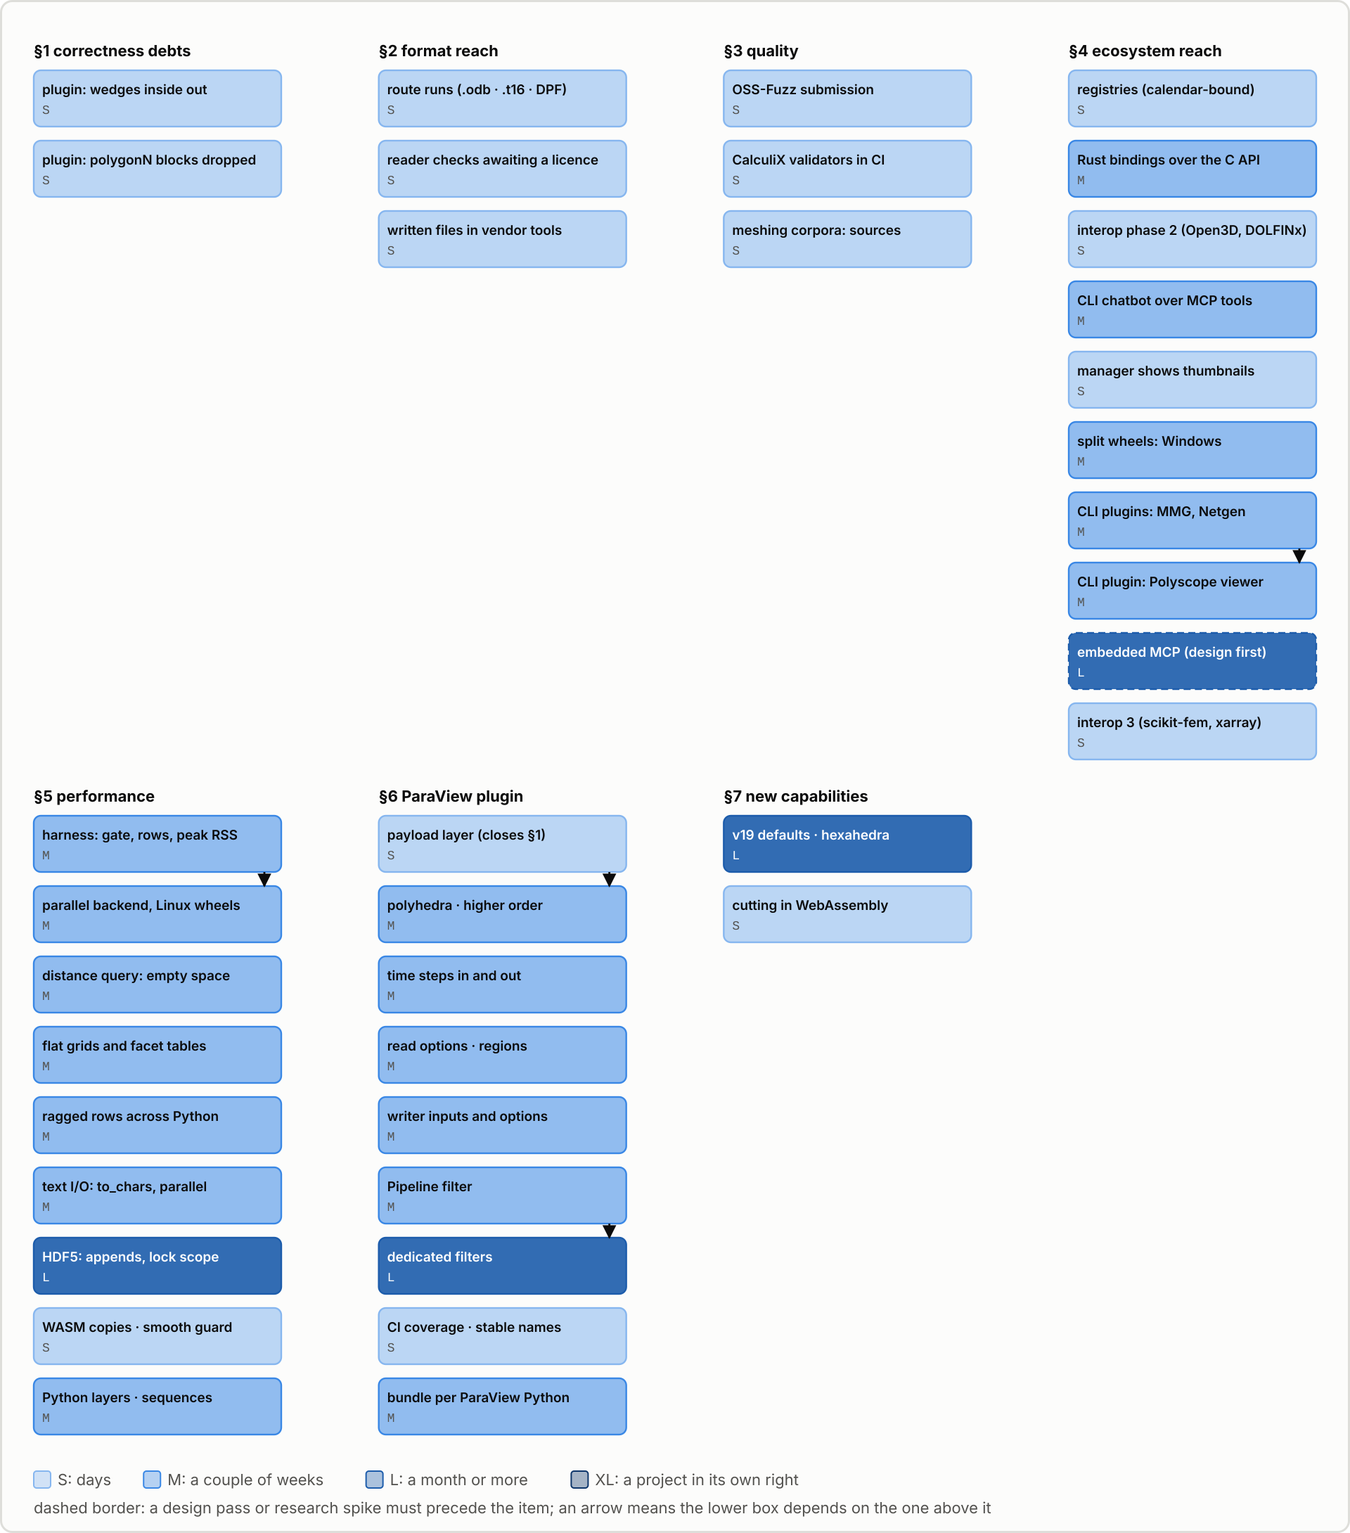
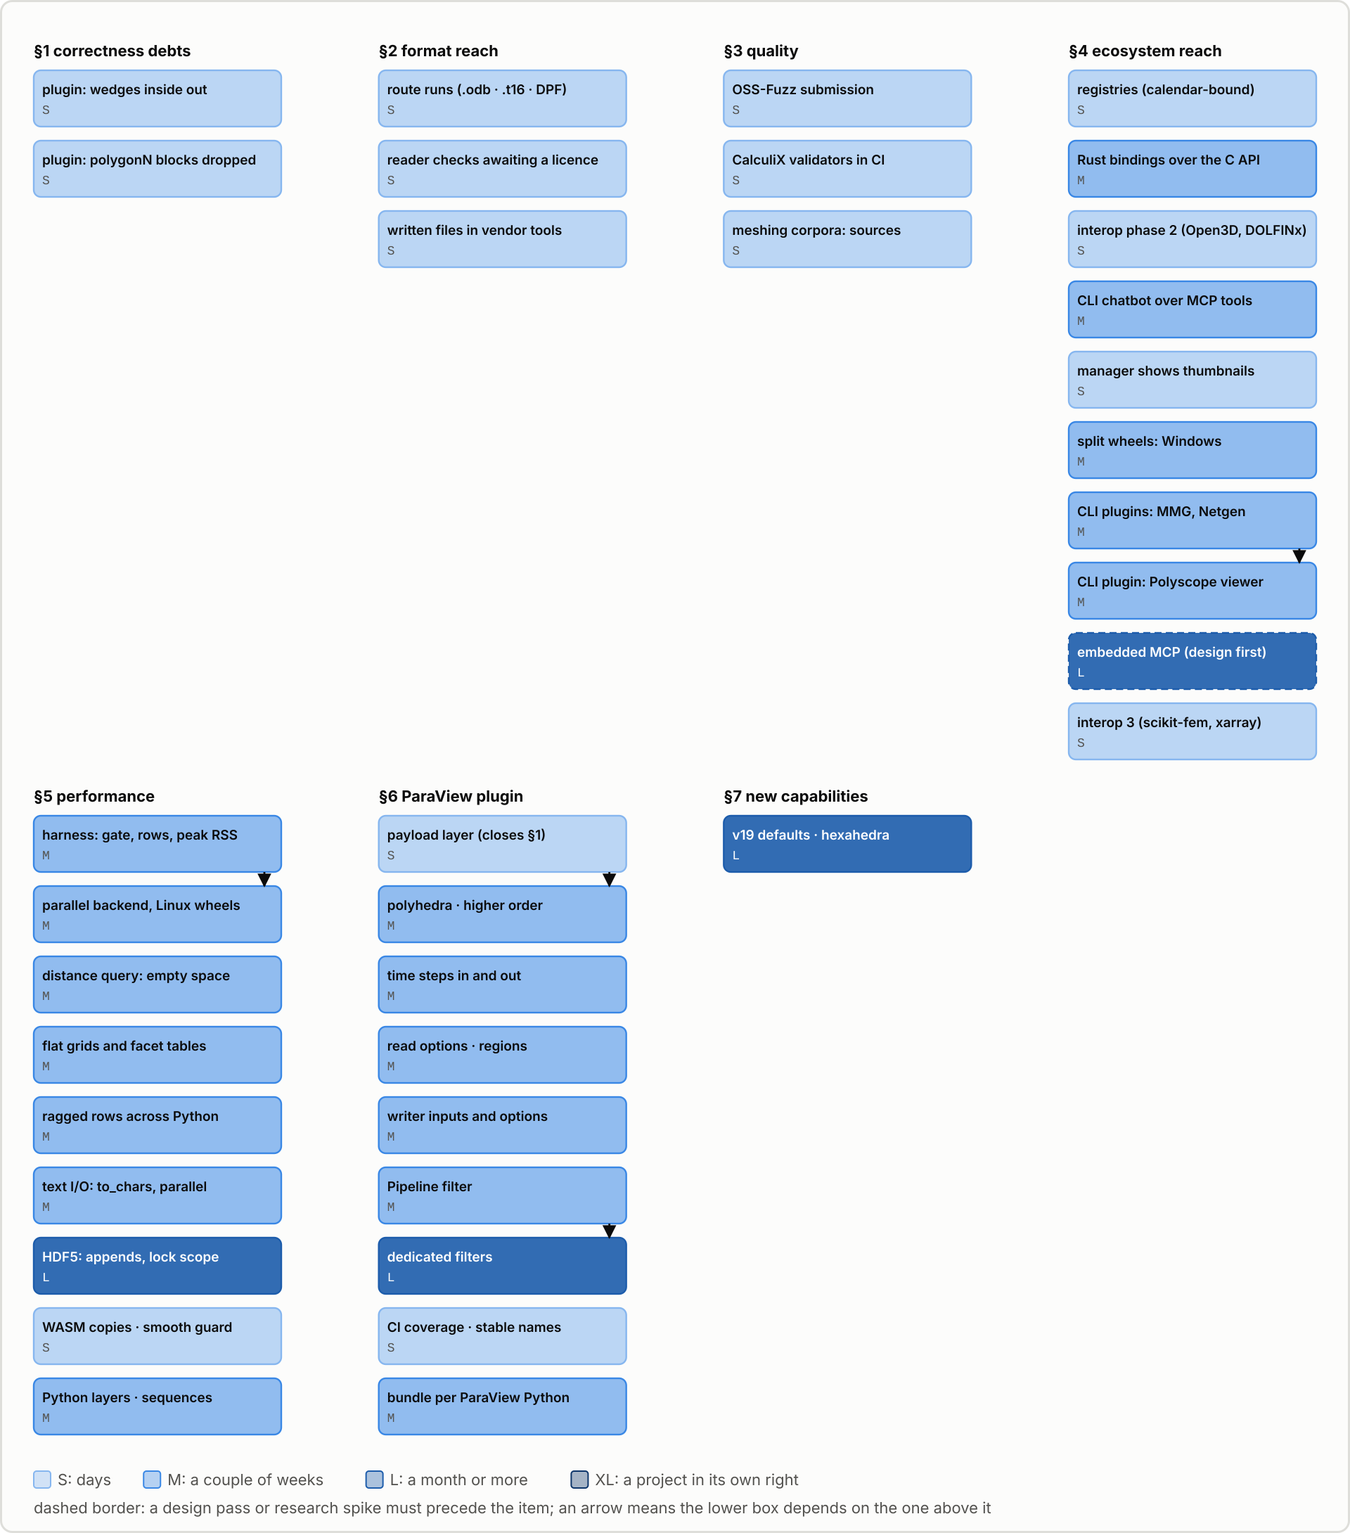
CutCells in the Windows wheels and the full WebAssembly artifact
Windows wheels: wheels.yml builds the pinned CutCells as a static MSVC
library (build/build-cutcells.sh, cached) and links it into the core DLL;
the base wheel smoke test now asserts CutCells cuts on every platform.

WebAssembly: build-wasm-deps.sh --full builds CutCells (static,
-fwasm-exceptions, no OpenMP) into the full prefix, configure-wasm.sh links
it, and the smoke test requires it in the full variants (the lean one still
refuses by name). Roadmap 7.10 is delivered and removed; docs, notices and
the roadmap map follow.

Claude-Session: https://claude.ai/code/session_01DnyVZBb66zh3SnGbxLhSpi

Changed region(s): [[0.5312, 0.5615, 0.7188, 0.6239]]

diff --git a/tests/wheel_base_smoke.py b/tests/wheel_base_smoke.py
@@ -1,7 +1,7 @@
 """Smoke test of the base wheel alone (wheels.yml's CIBW_TEST_COMMAND;
 standalone, no pytest): it carries no OpenCASCADE, so STEP reading raises an
 error naming the add-on, ``fit_cad`` falls back to the native backend, the
-shared core and its CMake package are in the wheel, and (Linux and macOS) the
+shared core and its CMake package are in the wheel, CutCells cuts on every platform, and (Linux and macOS) the
 native HDF5, netCDF, cgnslib and codec paths are active without their symbols
 leaking, beside h5py and netCDF4 in the same process."""
 
@@ -39,6 +39,12 @@ else:
 
 cmake_dir = mp.get_cmake_dir()
 assert os.path.isfile(os.path.join(cmake_dir, "meshioplusplusConfig.cmake")), cmake_dir
+
+# --- CutCells (cut_level_set, cut_quadrature): every platform's wheel ------------
+assert mp.cut_has_cutcells(), "the wheel was built without CutCells"
+plane = [((0.3, 0.0, 0.0), (1.0, 0.0, 0.0))]
+_, report = mp.cut_level_set(mp.box((2, 2, 2)), planes=plane, return_report=True)
+assert abs(report["measure"] - 0.3) < 1e-12, report
 
 # --- the permissive libraries (roadmap 4.7.2): Linux and macOS wheels ------------
 # Windows keeps HDF5, netCDF and the codecs on h5py, netCDF4 and the stdlib.

diff --git a/doc/diagrams/figures/flows.py b/doc/diagrams/figures/flows.py
@@ -1088,7 +1088,6 @@ def roadmap_map():
             "§7 new capabilities",
             [
                 ("v19 defaults · hexahedra", "L"),
-                ("cutting in WebAssembly", "S"),
             ],
             [],
         ),

diff --git a/CHANGELOG.md b/CHANGELOG.md
@@ -16,7 +16,7 @@ notable enhancements, and breaking changes. Breaking changes are called out expl
 - **Added: `remesh_quads`** ([field-aligned quads](doc/remesh_quads.md), roadmap 7.7.3): a triangle surface remeshed into quads along a smooth cross field by an installed QuadriFlow (MIT) or Instant Meshes (BSD-3), run as a separate process through a new provider kind, `QuadRemesherProvider`, registered by name (`add_quad_remesher`, `quad_remesher_names()`; `remesh_quads_backends()`). On the unit sphere at `h = 0.1` QuadriFlow makes 2,602 quads, no triangles, with a least scaled Jacobian of 0.368 (0.25 to 0.58 across seeds, the mean 0.987), where recombining `mesh_cad_surface`'s own triangles leaves 0.116 at the poles; the report gives the quads, the scaled Jacobian and the distance to the input. On every surface: C `mio_remesh_quads` with `mio_remesh_quads_opts`/`_report` and `mio_quad_remesher_count`/`_name`, Fortran, Julia, R, WASM (`remeshQuads`, which always throws there), both CLIs (`remesh-quads`), the pipeline (`RemeshQuads`) and MCP. CI builds QuadriFlow from a pinned commit; Instant Meshes is supported but untested.
 - **Added: TetGen `.smesh`** ([TetGen](doc/formats/tetgen.md#the-smesh-surface)): the surface file TetGen meshes reads and writes in both engines: nodes, then `triangle`, `quad` and `polygon` facets with `tetgen:ref` markers.
 - **Fixed: a cgnslib built against a system HDF5 failed to link** (roadmap 7.1.4). CGNS's exported CMake targets name their HDF5 dependency `hdf5-shared`/`hdf5-static` without declaring it when HDF5 came from FindHDF5 (Ubuntu's), so `-DMESHIOPLUSPLUS_WITH_CGNSLIB=ON` asked the linker for `-lhdf5-shared`; the configure now stands those names in for the HDF5 it found. A new CI job, `cgnslib`, builds CGNS 4.5.2 from its pinned tag and runs the CGNS suites with the backend live, `CgnsMll.LengthUnitsAgreeWithCgnslib` included, which no leg had run.
-- **Added: `cut_level_set` and `cut_quadrature`** ([level-set cutting](doc/cut.md)): the part of a mesh that one or several level sets select (scalar `point_data` arrays or planes, combined by CutCells' expressions such as `"a < 0 and b > 0"` or `"phi = 0"` for the interface), cut from cells of every family (line, triangle, quad, tetra, hexahedron, wedge, pyramid) into straight pieces of their own family (`backend="lut"`) or curved Lagrange pieces (`"quadrays"`), the uncut cells inside kept, point data interpolated in each piece's parent and cell data and cell regions carried (`cut:parent_cell`, `cut:cut`); and quadrature rules of any order on that part (cut-cell quadrature for unfitted finite elements), as a point cloud with `quadrature:weight`, `quadrature:reference`, `quadrature:rule` and `quadrature:parent_cell`. A level set is quadratic on `triangle6`/`tetra10` meshes. Both run [CutCells](https://github.com/sclaus2/CutCells) (S. Claus, MIT), a new optional dependency (`MESHIOPLUSPLUS_WITH_CUTCELLS`, found by `find_package(CutCells)`; `build/build-cutcells.sh` builds the pinned commit), which the Linux and macOS wheels link; without it both refuse naming the option. On every surface: Python, C++ (`operations/cut.hpp`, additive), C (`mio_cut_level_set`, `mio_cut_quadrature`, `mio_cut_opts`, `mio_cut_report`, `mio_has_cutcells`), Fortran, Julia, R, WASM (bound; neither artifact links CutCells yet), both CLIs (`cut`, `cut-quadrature`), the pipeline (`CutLevelSet`, both engines) and MCP. A new CI job builds the pin and runs the suites.
+- **Added: `cut_level_set` and `cut_quadrature`** ([level-set cutting](doc/cut.md)): the part of a mesh that one or several level sets select (scalar `point_data` arrays or planes, combined by CutCells' expressions such as `"a < 0 and b > 0"` or `"phi = 0"` for the interface), cut from cells of every family (line, triangle, quad, tetra, hexahedron, wedge, pyramid) into straight pieces of their own family (`backend="lut"`) or curved Lagrange pieces (`"quadrays"`), the uncut cells inside kept, point data interpolated in each piece's parent and cell data and cell regions carried (`cut:parent_cell`, `cut:cut`); and quadrature rules of any order on that part (cut-cell quadrature for unfitted finite elements), as a point cloud with `quadrature:weight`, `quadrature:reference`, `quadrature:rule` and `quadrature:parent_cell`. A level set is quadratic on `triangle6`/`tetra10` meshes. Both run [CutCells](https://github.com/sclaus2/CutCells) (S. Claus, MIT), a new optional dependency (`MESHIOPLUSPLUS_WITH_CUTCELLS`, found by `find_package(CutCells)`; `build/build-cutcells.sh` builds the pinned commit), which the Linux, macOS and Windows wheels and the full WebAssembly artifact link; without it both refuse naming the option. On every surface: Python, C++ (`operations/cut.hpp`, additive), C (`mio_cut_level_set`, `mio_cut_quadrature`, `mio_cut_opts`, `mio_cut_report`, `mio_has_cutcells`), Fortran, Julia, R, WASM (`cutLevelSet`, `cutQuadrature`, `hasCutcells`; the lean artifact refuses by name), both CLIs (`cut`, `cut-quadrature`), the pipeline (`CutLevelSet`, both engines) and MCP. A new CI job builds the pin and runs the suites.
 - **ABI:** `MESHIOPLUSPLUS_ABI_VERSION` 37 -> 38 (Tier A): `CadReadOptions` appends `mHeal` and `mSewTolerance` (16 -> 32 bytes) and `TetrahedralizeOptions` appends `mProvider` (80 -> 112 bytes); `TetrahedralizeBackend::Named`, the named tet-mesher and quad-remesher registrations in `providers.hpp` and the new header `operations/remesh_quads.hpp` ride along as pure additions. See [the ABI history](doc/abi.md).
 - **Added: materials in `octree_mesh`'s hexahedral output** ([octree_mesh](doc/octree_mesh.md#the-hexahedral-output), roadmap 7.9.3). `output="hex"` with `conformity="cleaving"` gives one material per nested shell, as the tetrahedral output does (`octree_mesh:material`, `material_<k>`). The materials are made manifold one layer inside the next, each interface is pillowed on both sides and fitted to its own shell, and `hausdorff_to_skin` measures the interfaces too. Measured: two nested spheres keep a smallest corner of 0.60 (uniform) and 0.47 (graded), three keep 0.48 and 0.28, each material within 3% of its shell's volume, conforming. No option or ABI change: the option existed, and a one-shell skin gives the same bytes as before.
 - **Changed: `octree_mesh`'s hexahedral fit leaves out creases shorter than a cell** (roadmap 7.9.4, narrowed to 7.9.2). On a scan most creases are noise; they are no longer snapped, and the warnings and `num_feature_chains_missed` count them. Hexahedra with a non-positive corner, uniform / graded: Stanford bunny 5 / 0 → 2 / 0; decimated Happy Buddha 684 / 486 → 283 / 102; XYZ RGB dragon 1 516 / 1 237 → 254 / 66. A new warning counts those lying where the skin is thinner than two cells. Skins whose chains are longer than a cell (the cube, the capped cylinder) give the same bytes, as do all four `octree_mesh_hex` rows of `bench_ops --hash`; the Stanford bunny's hexahedra change.

diff --git a/doc/wasm.md b/doc/wasm.md
@@ -45,7 +45,7 @@ full.hasOcct();        // true; hasZstd(), hasLz4(), hasBzip2(), hasNetgen(), ha
 | --- | --- | --- | --- |
 | `meshioplusplus_wasm` (lean) | 13.5 MB (4.5 MB gzipped) | 94 kB | HDF5, netCDF, CGNS, zlib, gidpost, Eigen (MED transpose, MPL-2.0) |
 | `meshioplusplus_wasm_mt` (lean, threaded) | 14.2 MB (4.7 MB gzipped) | 113 kB | the same, with OpenMP over pthreads |
-| `meshioplusplus_wasm_full` | 26.2 MB (8.8 MB gzipped) | 98 kB | the lean libraries, plus OpenCASCADE, zstd, lz4, bzip2, KaHIP (serial kaffpa), Netgen (nglib) and MMG (libmmg) |
+| `meshioplusplus_wasm_full` | 26.2 MB (8.8 MB gzipped) | 98 kB | the lean libraries, plus OpenCASCADE, zstd, lz4, bzip2, KaHIP (serial kaffpa), Netgen (nglib), MMG (libmmg) and CutCells |
 | `meshioplusplus_wasm_full_mt` (threaded) | 26.6 MB (9.0 MB gzipped) | 118 kB | the same, with OpenMP over pthreads |
 
 Measured for v17.2.0 with Emscripten 6.0.3 (`gzip -9` in parentheses; a server's Brotli does better). OpenCASCADE's modelling, healing, meshing and STEP/IGES toolkits about double the binary, which is why the full pair is opt-in. MMG (October 2026, Emscripten 6.0.3, roadmap 3.1.8) adds 0.99 MB to the full `.wasm` (0.35 MB gzipped) and nothing to the `.mjs`: measured on the sequential full artifact built twice in the same configuration (OpenCASCADE and HDF5 left out to keep the comparison quick), 14.76 MB (5.12 MB gzipped) without MMG and 15.75 MB (5.47 MB gzipped) with it, 6.7% more.
@@ -60,6 +60,7 @@ The lean pair is MIT, and its bundled libraries (zlib, HDF5, netCDF, CGNS, the v
 
 Some libraries are in neither pair, each for a reason, and each still answers by name:
 
+- **CutCells in the lean pair**: `cutLevelSet` and `cutQuadrature` ([level-set cutting](cut.md)) run in the full artifact only (CutCells 0.5.0 at the commit `build/deps-pins.sh` pins, static, without OpenMP, built by `build-wasm-deps.sh --full`); on lean, `hasCutcells()` is false and both throw naming `MESHIOPLUSPLUS_WITH_CUTCELLS`.
 - **KaHIP in the lean pair**: the graph partitioner ships only in the full artifact (serial kaffpa, Emscripten port of v3.25 built by `build-wasm-deps.sh --full`); on lean, `partition(..., 'kahip')` throws naming `MESHIOPLUSPLUS_WITH_KAHIP`, and `'auto'` resolves to the SFC method.
 - **ADIOS2** (`vtx`): no one has made a wasm build of it; `vtx` is absent from `availableFormats()`, and a `.bp` path names ADIOS2.
 - **TecIO** (`szplt`): its redistribution terms; absent, and named, the same way.
@@ -498,7 +499,7 @@ node tests/wasm/smoke.mjs
 `--full` adds the [full pair](#lean-and-full-builds) (`--full-only` builds only it; `--without-occt` leaves OpenCASCADE out of it, for a codecs-only full build that stays MIT), configured with `-DMESHIOPLUSPLUS_WASM_FULL=ON` in its own trees (`build/wasm-<type>-full[-mt]`). Only under that option does CMake look for OpenCASCADE, zstd, lz4 and KaHIP on a wasm target, in the prefixes `build/build-wasm-deps.sh --full` builds, one per threading flavour (OpenCASCADE's reference counts are `std::atomic`, and an object built without `-pthread` cannot join the threaded link); bzip2 is Emscripten's port, like zlib. A full build never drops a library it was asked for: one not found is a configure error, not a smaller artifact. OpenCASCADE is a long build, most of an hour per flavour on four cores; CI caches its prefix apart from the lean one, and the release job assembles the package from both builds' artifacts.
 
 ```sh
-./build/build-wasm-deps.sh --full                       # lean deps + OpenCASCADE, zstd, lz4 and KaHIP (seq and mt)
+./build/build-wasm-deps.sh --full                       # lean deps + OpenCASCADE, zstd, lz4, KaHIP, Netgen, MMG and CutCells (seq and mt)
 ./build/configure-wasm.sh --full --build                # all four artifacts
 MESHIOPLUSPLUS_WASM_VARIANT=full node tests/wasm/smoke.mjs
 ```

diff --git a/doc/roadmap.md b/doc/roadmap.md
@@ -223,7 +223,6 @@ The sanitizer leg, the reader fuzzing, the format conformance matrix, the proper
 - **7.9 Deferred defaults and follow-ups.**
   - **7.9.1 `model_tolerances` and `virtual_faces` on by default, in v19.** On the CAD corpus they lose no face and together mesh 55 more of its 16,503; they stay off because the released `mio_mesh_cad_surface_opts_ex` reads zero as off, and [mesh generation](./mesh_cad.md#measured-and-parked) defers them to the next major version, when the C struct can change. v18.0.0 was that version and did not take them, so they wait for v19, with the C struct change. **S**
   - **7.9.2 Hexahedra of scans that crease within a cell.** `octree_mesh`'s hexahedral output no longer snaps creases shorter than a cell, which removed most of the non-positive corners on scans ([octree_mesh](./octree_mesh.md#the-hexahedral-output)), but some remain where a scan creases, curves or thins within a cell: at `min_size` 0.6% of the diagonal and `feature_angle=60`, 283 and 102 cells of the decimated Happy Buddha (uniform, graded) and 254 and 66 of the XYZ RGB dragon ([common-3d-test-models](https://github.com/alecjacobson/common-3d-test-models)), about a third of them where the skin is thinner than two cells, and two cells of the Stanford bunny's uniform grid at `min_size=1.5`, at a corner of zero. No move of a node raises them, and `min_size` is a floor the hexahedral grid keeps, so the remaining routes change what is fitted rather than how: fit a smoothed skin within a cell (the scan's noise filtered at the cell's scale) and project onto the true skin only where it is within a tolerance, or give a part one cell thick a template of its own instead of two facing pillows. A graded box inside a box, both on the lattice's planes, under cleaving, keeps four inverted cells where the interface meets the dual's transitions; it belongs here too. Probe: `test_hexahedral_bunny[uniform]` (`MESHIOPLUSPLUS_OCTREE_MESH_BUNNY=1`) asserts the warning about a non-positive corner, which then no longer comes. **L**
-- **7.10 Level-set cutting in WebAssembly.** [`cutLevelSet` and `cutQuadrature`](./cut.md) are bound in WebAssembly but neither artifact links CutCells, so both refuse there. Build CutCells (C++20, its OpenMP optional) for wasm32 in `build/build-wasm-deps.sh --full` from the commit `build/deps-pins.sh` pins, link it into the full artifact (`MESHIOPLUSPLUS_WASM_FULL`'s library list), and turn the smoke test's refusal branch into the measured one it already holds. **S**
 
 ---
 
@@ -301,4 +300,4 @@ Open work only; what shipped is in `CHANGELOG.md`.
 5. **The ParaView plugin ([§6](#paraview-plugin))** — the payload layer and CI (6.1, 6.10), then time steps, read options and regions (6.4 to 6.6), then the writer (6.7), then the Pipeline filter (6.8), whose `apply_operations` has landed; the dedicated filters and the bundle last.
 6. **Split Python packages on Windows ([4.7](#ecosystem-reach)) and the CLI plugins (4.8)** — the MSVC recipe for the static libraries (4.7.1), then plugins through a shared core DLL (4.7.2); the Linux and macOS plugin archive (4.8.1) needs neither and can go first, the Polyscope plugin (4.8.2) after it.
 7. **The embeddable MCP server (4.9)** — its design pass (4.9.1) before any code, since it decides whether the Python server's sandbox and sanitizer move into the core.
-8. **New capabilities ([§7](#new-capabilities))** — 7.10 first (CutCells in the full WebAssembly artifact, a build recipe), then 7.9.2; 7.9.1 is tied to the next major version.
+8. **New capabilities ([§7](#new-capabilities))** — 7.9.2 first; 7.9.1 is tied to the next major version.

diff --git a/doc/cut.md b/doc/cut.md
@@ -45,7 +45,7 @@ On a unit cube cut by the plane `x = 0.3`, every family (hexahedra, tetrahedra, 
 
 ## Building with CutCells
 
-CutCells is bring-your-own, never vendored or downloaded by CMake. `build/build-cutcells.sh PREFIX` builds the commit `build/deps-pins.sh` pins (CutCells has no release tags), static and without OpenMP; then configure meshio++ with `-DMESHIOPLUSPLUS_WITH_CUTCELLS=ON -DCUTCELLS_ROOT=PREFIX` (or `build/configure.sh --cutcells-root PREFIX`). The PyPI wheels for Linux and macOS link it (`build/build-permissive-libs.sh`); the Windows wheels, both WebAssembly artifacts and the default source build do not, and refuse by name. `cut_has_cutcells()` (C++, Python), `_core.__has_cutcells__`, `mio_has_cutcells()` (C) and their binding twins report it.
+CutCells is bring-your-own, never vendored or downloaded by CMake. `build/build-cutcells.sh PREFIX` builds the commit `build/deps-pins.sh` pins (CutCells has no release tags), static and without OpenMP; then configure meshio++ with `-DMESHIOPLUSPLUS_WITH_CUTCELLS=ON -DCUTCELLS_ROOT=PREFIX` (or `build/configure.sh --cutcells-root PREFIX`). The PyPI wheels for Linux, macOS and Windows link it (`build/build-permissive-libs.sh`); the Windows wheels link it too (a static MSVC build, `build/build-cutcells.sh`), and so does the full WebAssembly artifact (`build/build-wasm-deps.sh --full`); the lean WebAssembly artifact and the default source build do not, and refuse by name. `cut_has_cutcells()` (C++, Python), `_core.__has_cutcells__`, `mio_has_cutcells()` (C) and their binding twins report it.
 
 ## Bindings
 
@@ -58,4 +58,4 @@ CutCells is bring-your-own, never vendored or downloaded by CMake. `build/build-
 
 ## Limits
 
-Straight-sided geometry only (CutCells' affine cells); polygons and polyhedra are refused; quadratic level sets only on meshes of `triangle6` or `tetra10` cells; at most 64 level sets in one cut (CutCells' mask); serial. The WebAssembly artifacts do not link CutCells yet.
+Straight-sided geometry only (CutCells' affine cells); polygons and polyhedra are refused; quadratic level sets only on meshes of `triangle6` or `tetra10` cells; at most 64 level sets in one cut (CutCells' mask); serial. CutCells is in the full WebAssembly artifact only (static, built without OpenMP, with `-fwasm-exceptions`); the lean one refuses by name.

diff --git a/doc/installation.md b/doc/installation.md
@@ -37,7 +37,7 @@ The base wheel, `meshioplusplus`, is MIT and carries no copyleft code. The core 
 | HDF5 1.14.6, netCDF-C 4.9.3, cgnslib 4.5.2 (Linux and macOS; the native HDF5, netCDF and CGNS formats) | BSD-3-Clause, BSD-3-Clause, Zlib |
 | zstd 1.5.7, LZ4 1.10.0, bzip2 1.0.8 (Linux and macOS; the VTK XML codecs and libMesh `.bz2`) | BSD-3-Clause, BSD-2-Clause, BSD-style |
 | KaHIP 3.25 (Linux and macOS; the `kahip` partition method) | MIT |
-| CutCells 0.5.0 (Linux and macOS; `cut_level_set` and `cut_quadrature`) | MIT |
+| CutCells 0.5.0 (Linux, macOS and Windows; `cut_level_set` and `cut_quadrature`) | MIT |
 | Eigen (Linux and macOS; header-only, MED) | MPL-2.0 |
 
 On Linux and macOS (v18.0.0) the libraries above are static archives with hidden symbols, so the formats they serve run natively in the wheel; h5py and netCDF4 still work beside them, because none of the wheel's HDF5 symbols are exported and each package keeps its own copy. The Windows wheels keep HDF5, netCDF and the codecs on h5py, netCDF4 and the standard library until the static build has an MSVC recipe. The three copyleft backends are separate wheels, each pinned to the base wheel's exact version, shipping its library as shared objects beside its own extension, and registering a provider with the base core when `meshioplusplus` first needs one (`MESHIOPLUSPLUS_NO_PLUGINS=1` skips the discovery):

diff --git a/THIRD_PARTY_NOTICES.md b/THIRD_PARTY_NOTICES.md
@@ -12,7 +12,7 @@ meshio++ itself is MIT ([LICENSE](LICENSE)). The binaries the project publishes 
 | [Netgen](https://ngsolve.org/) (nglib) | 6.2.2401 | LGPL-2.1-only | add-on wheel only (shared) | no |
 | [MMG](https://www.mmgtools.org/) | 5.8.0 | LGPL-3.0-or-later | add-on wheel only (shared, without ELAS) | no |
 | [HDF5](https://www.hdfgroup.org/solutions/hdf5/) | 1.14.6 | BSD-3-Clause | yes (Linux, macOS; static, symbols hidden) | no |
-| [netCDF-C](https://www.unidata.ucar.edu/software/netcdf/) | 4.9.3 | BSD-3-Clause | yes (Linux, macOS; static) | no |
+| [netCDF-C](https://www.unidata.ucar.edu/software/netcdf/) | 4.9.3 | BSD-3-Clause | yes (Linux, macOS, Windows; static) | no |
 | [CGNS](https://cgns.github.io/) (cgnslib) | 4.5.2 | Zlib | yes (Linux, macOS; static) | no |
 | [zstd](https://facebook.github.io/zstd/) | 1.5.7 | BSD-3-Clause (the library is dual-licensed BSD/GPL-2.0; the BSD option is used) | yes (Linux, macOS; static) | no |
 | [LZ4](https://lz4.org/) | 1.10.0 | BSD-2-Clause (the library) | yes (Linux, macOS; static) | no |
